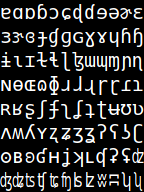
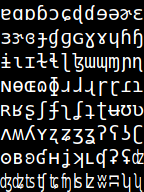
Move ipa by 1 pixel, add spacing modifiers

diff --git a/go-wayland-texteditor/unicode.go b/go-wayland-texteditor/unicode.go
@@ -250,6 +250,24 @@ var devanagari3Descriptor = "" +
 	`ॳ	ॹ	ॺ	ॻ	ॼ	ॽ	ॾ	ॿ	ꣴ	ꣳ
 	ꣵ	ꣶ	ꣷ	꣸	꣹	꣺	ꣻ	ꣽ	꣼	`
 
+var spacingmodDescriptor = "" +
+	`ʰ	ˀ	ː	ˠ	˰
+	ʱ	ˁ	ˑ	ˡ	˱
+	ʲ	˂	˒	ˢ	˲
+	ʳ	˃	˓	ˣ	˳
+	ʴ	˄	˔	ˤ	˴
+	ʵ	˅	˕	˥	˵
+	ʶ	ˆ	˖	˦	˶
+	ʷ	ˇ	˗	˧	˷
+	ʸ	ˈ	˘	˨	˸
+	ʹ	ˉ	˙	˩	˹
+	ʺ	ˊ	˚	˪	˺
+	ʻ	ˋ	˛	˫	˻
+	ʼ	ˌ	˜	ˬ	˼
+	ʽ	ˍ	˝	˭	˽
+	ʾ	ˎ	˞	ˮ	˾
+	ʿ	ˏ	˟	˯	˿`
+
 var UnicodeFont Font
 
 func init() {
@@ -257,6 +275,7 @@ func init() {
 	(&UnicodeFont).Load("extendeda.png", extendedaDescriptor, "")
 	(&UnicodeFont).Load("extendedb.png", extendedbDescriptor, "")
 	(&UnicodeFont).Load("supplement.png", supplementDescriptor, "")
+	(&UnicodeFont).Load("spacingmod.png", spacingmodDescriptor, "")
 	(&UnicodeFont).Load("ipa.png", ipaDescriptor, "")
 	(&UnicodeFont).Load("greek.png", greekDescriptor, "")
 	(&UnicodeFont).Load("cyrillic.png", cyrillicDescriptor, "")
